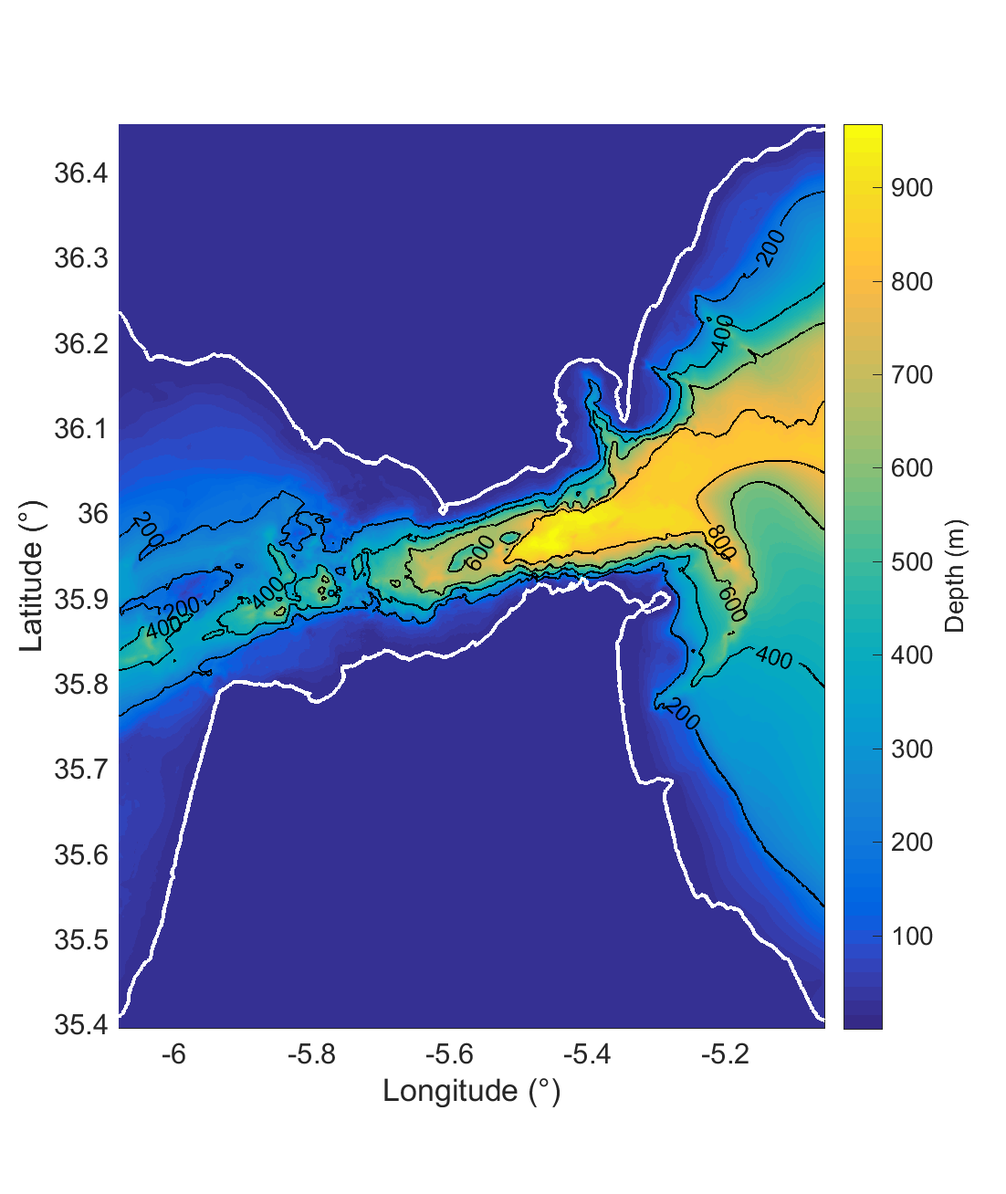
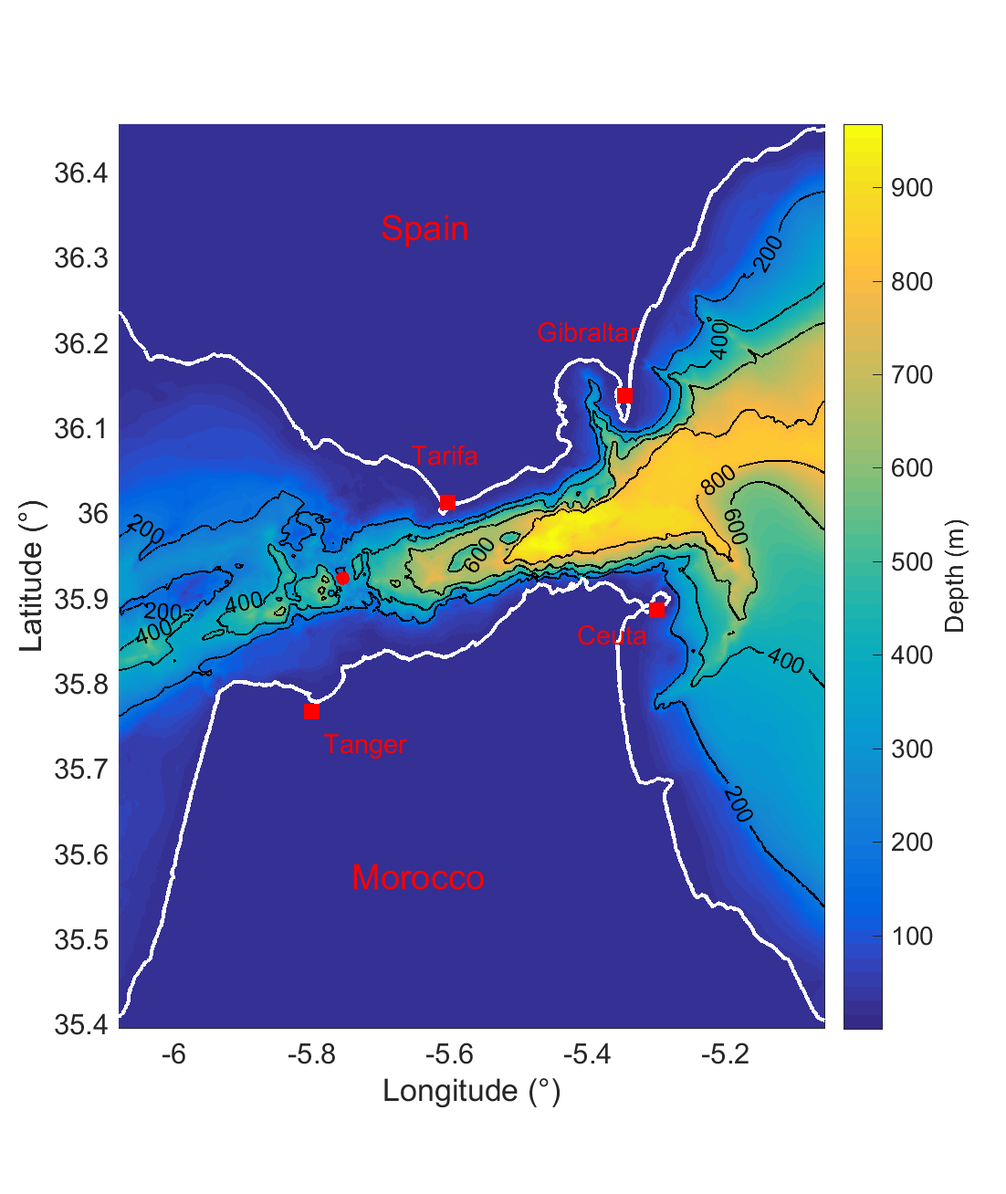
commit12

diff --git a/GBR3D/chapGBR3D.tex b/GBR3D/chapGBR3D.tex
@@ -395,14 +395,14 @@ The numerical simulation framework constitued of three simulation periods is pre
 \subsection{Numerical Configuration}
 \subsubsection{Numerical framework}
 
-Simulations are run using CROCO-NBQ as was the case in Hilt 2020 (see a presentation of CROCO-NBQ there ) . Table \ref{tab_NH-HR} surmrizes some simulation choice. Non-linear equation of state, noslip condition at the bottom,etc...  The turbulent closure scheme used is Smagorinsky with coef 0.05 except for paragraph ... in which simulations used coeff , and also one use GLSk-$\epsilon$.
+Simulations are run using CROCO-NBQ as was the case in Hilt 2020 (see a presentation of CROCO-NBQ there ... and in introduction of manuscript???) . Table \ref{tab_NH-HR} surmrizes some simulation choice. Otherwise, Non-linear equation of state, noslip condition at the bottom,etc...  The turbulent closure scheme used in all simulations except the ones of paragraph ... is Smagorinsky with coef chosen 0.05. For paragraph ... three simulations use Smago with coefs $10{-3}$,$10{-2}$,$10^{-1}$ , and one use GLSk-$\epsilon$.
 
 Bathymetry data from 100m resolved MNT SHOM, smoothed for pressure gradient... is shown in figure \ref{FigBathy3D}. (bathy seuillée?)
 
 
-Initialisation and open boundary conditions (that incude tdial forcing) are from a simulation of the operational Med and Black Sea ENEA using MitGCM (ENEA, Rome)\footnote{http://www.enea.it/it/seguici/pubblicazioni/pdf-volumi/cresco-report-2016.pdf}, whch serves as parent simulation. The parent simulation as an horizontal resolution in the strait of $\approx$ 700m and verical z-levels (repartition?), that are interpolated on grid of horizontal resolution 45 m with 40 evenly spaced vertical $\sigma$-levels. This is sufficient in the area of the main Camarinal Sill sufficient (300m at the top and 500m downslope) to be more resolved on the vertical than in horizontal direction. No atmospheric forcing is embedded in the simulation.
+Initialisation and open boundary conditions (that incude tdial forcing) are from a simulation of the operational Med and Black Sea ENEA using MitGCM (ENEA, Rome)\footnote{http://www.enea.it/it/seguici/pubblicazioni/pdf-volumi/cresco-report-2016.pdf}, whch serves as parent simulation. The parent simulation as an horizontal resolution in the strait of $\approx$ 700m and verical z-levels (repartition?), that are interpolated on grid of horizontal resolution 45 m with 40 evenly spaced vertical $\sigma$-levels. As noted in table ..., this is sufficient to be more resolved in the vertical direction than in the horizontal for the whole simulation domain. At Camarinall Sill, vertical resolution varies from (300m... at the summit to ...500m  downslope. This is sufficient in the area of the main Camarinal Sill. No atmospheric forcing is embedded in the simulation.
 
-First 6 hours of simulation are run in CROCO-Hydro at 50m resolution and the last field is used to restart in NBQ mode. Otherwise the balance in MitGCM is to coarse for stability at high resolution.
+The first 6 hours of simulation are run in CROCO-Hydro at 50m resolution and the last field is used to restart in NBQ mode. Otherwise the balance in MitGCM is to coarse for stability at high resolution.
 
 \begin{table}[!h]
         %\begin{minipage}{.6\textwidth}
@@ -436,8 +436,29 @@ First 6 hours of simulation are run in CROCO-Hydro at 50m resolution and the las
 \end{table}
 
 
+\begin{table}[!h]
+        %\begin{minipage}{.6\textwidth}
+        \centering
+        \begin{tabular}{|c|c|}
+                \hline
+                %Coeur numérique & \multicolumn{2}{c|} {CROCO-NBQ} \\
+                Closure scheme & Simulation name\\
+                \hline
+                Smago 0.005 & SimIT,SimNT,SimST\\
+                Smago 0.001 & SimIT-S001\\
+                Smago 0.01 & SimIT-S01\\
+                Smago 0.1 & SimIT-S1\\
+                GLS K-$\epsilon$ & SimIT-Kep\\
+                \hline
+        \end{tabular}
+        \captionof{table}{Simulation names (ou combiner avec tableau d'avant ???)}
+        \label{tab_sim3Dnames}
+        %\end{minipage}
+\end{table}
+
+
 \subsubsection{Tidal forcing and simulation period}
-The tidal forcing is integrated to the boundary forcing by the parent simulation. As indicated in table \ref{tab_NH-HR},  it comprises four tidal harmonics (?)($\text{M}_{\text{2}}$, $\text{S}_{\text{2}}$, $\text{K}_{\text{1}}$, $\text{O}_{\text{1}}$). Simulations are run for 3 days along 3 different periods of September of year 2017 (close to equinox). The date of the beginning and end of each NBQ simulation is surmrised in table \ref{tab_dates_MIV}, and does not include the 6hour hyrostatic spin up period. The comparison of the sea-level anomaly between a grid point near Tarifa (coord -5.6° - 36.01°) in both the parent MitGCM and CROCO simulation and the tidal gauge data (from Puertos del Estado) are shown in figure \ref{fig_maree_tar}. Can see close to the parent simulation except in the neap tide period.
+The tidal forcing is integrated to the boundary forcing by the parent simulation. As indicated in table \ref{tab_NH-HR},  it comprises four tidal harmonics (?)($\text{M}_{\text{2}}$, $\text{S}_{\text{2}}$, $\text{K}_{\text{1}}$, $\text{O}_{\text{1}}$). Due to compuational cost constraints, simulations are run for 3 days along 3 different periods of September of year 2017 (close to equinox). The date of the beginning and end of each NBQ simulation is surmrised in table \ref{tab_dates_MIV}, and does not include the 6hour hyrostatic spin up period. The comparison of the sea-level anomaly between a grid point near Tarifa (coord -5.6° - 36.01°) in both the parent MitGCM and CROCO simulation and the tidal gauge data (from Puertos del Estado) are shown in figure \ref{fig_maree_tar}. Can see close to the parent simulation except in the neap tide period.
 
 \begin{table}[h]
         %\begin{minipage}{.6\textwidth}
@@ -446,10 +467,10 @@ The tidal forcing is integrated to the boundary forcing by the parent simulation
                 \hline
                 Situation & Simulation name & Dates (UTC)\\
                 \hline
-                Intermediate Tide & IT & 10/09/2017 19h00 - 13/09/17 01h00  \\
-                Neap Tide& NT & 13/09/2017 16h00 - 15/09/17 17h00 \\
+                Intermediate Tide & SimIT & 10/09/2017 19h00 - 13/09/17 01h00  \\
+                Neap Tide& SimNT & 13/09/2017 16h00 - 15/09/17 17h00 \\
                 %\hline
-                Spring Tide& ST & 19/09/2017 22h00 - 21/09/17 23h00  \\
+                Spring Tide& SimST & 19/09/2017 22h00 - 21/09/17 23h00  \\
                 \hline
         \end{tabular}
         \captionof{table}{Trouver des noms pours les simus....Périodes de simulation pour les 3 sitituations VE, MM et ME (format date JJ/MM/YY????)}
@@ -459,7 +480,7 @@ The tidal forcing is integrated to the boundary forcing by the parent simulation
 
 \begin{figure}[!h]
         \includegraphics[width=0.5\textwidth]{./GBR3D/FigBathyVHR.png}
-        \caption{Ajouter point Tarifa(et Ceuta, Tanger, Gibraltar, Tarifa), point ubar...(5.7553$^o$W  35.9238$^o$N) (Foutre a cote d'un tableau???)}
+        \caption{Area and Bathymetry used for the simulations. The red dot denotes the point at Camarinal Sill where the zonal barotropic current is taken as reference in following figures.}
         \label{FigBathy3D}
 \end{figure}
 
@@ -490,7 +511,7 @@ Figure \ref{Fig_Ini_WM3D} shows the $\theta$-S diagrams for east and west entry 
 
 \subsubsection{Interface definition}
 
-The analysis of simulation result is based on two layer definition of an Atlantic waters layer and Mediterranean waters layer. They are defined in regard to a reference salinity, with the interface defined from the first water parcel from the top down in teh water column for which salinity is above the reference salinity.
+The analysis of simulation result is based on two layer definition of an Atlantic waters layer and Mediterranean waters layer. They are defined in regard to a reference salinity, with the interface defined as the height of the first water parcel from the top down in teh water column for which salinity is above the reference salinity.
 
 The reference salinity is taken as varying along the Strait as a hyperbolic tangente function of longitude centered at the Camarinal Sill to account for the different water mass composition in the eastern and western part of the Strait of Gibraltar. %The function was fitted against the median salinity found by of fitted hyperbolic tangente to the salinity profile in the water column for the initial field
 
@@ -513,7 +534,7 @@ With the atlantic and mediterranean layers defined as above, the Froude layer nu
 F_i=\frac{U_i^2}{g'h_i} , \ \text{with} g'=g \frac{\rho_2-\rho_1}{\rho_0}
 \end{equation}
 
-where $\rho_i$ averaged density in layer i,  $U$ is averaged velocity norm (u and v) over the layer i of height h. If $F_i>1$ say that the flow in layer i is supercritical.
+where $\rho_i$ averaged density in layer i,  $U$ is averaged velocity norm over the layer i of height h. If $F_i>1$ say that the flow in layer i is supercritical.
 
 
 \subsubsection{Hydraulic Jump detection, acceleration of flow}
@@ -553,19 +574,18 @@ Velocity in the area of the hydraulic jump must validate condition of (at least)
 
 
 
-In the end, some parameters are chosen as threshold, here take values that should be correct for area of camarinal sill, the minimum excursion of the jump $\Delta n$ and the height of the Atl layer $b_2$ , and the reduced gravity.  (ici prend...)
+In the end, some parameters are chosen as threshold, here take values that should be correct for area of camarinal sill, the minimum excursion of the jump $\Delta n = 30m$ and the height of the Atl layer $b_2=50 m$ , and the reduced gravity $g'=0.02 m s^{-2}$.
 
 \subsubsection{Q parameter and derivated diagnosis}
 
-We want to detect primary shear instabilities in the Med outflow.
-To detect vortex structures without a proiori choosing a rotation axe as with vorticity diagnosis, can use parameter Q (refs) 
+We want to detect primary shear instabilities in the Med outflow. A simple vorticity diagnosis is not chosen because it requires chosing the rotation axe and regions of high shear such as between the MEd outflow and Atl waters, have high vorticity values. Insetad, chose to compute parameter Q, as defined as :
 
 \begin{equation}
 Q=-\frac{1}{2} \frac{\partial u_i}{\partial x_j} \frac{\partial u_j}{\partial x_i} = \frac{1}{2} (\Omega_{ij}\Omega_{ij} - S_{ij} S_{ij})
 \end{equation}
 with $u_i$ the component of velocity, and $S_{ij}$ and $\Omega_{ij}$ are respectively symetrical and anti-symetrical parts of velocity gradient (comme ça se dit en anglais????). When $Q>0$, anti-symetrical term contribution, which denotes rotation, is predominent over the symmetrical, shear, part. ((It can also be viewed as a generalisation of Okubo-Weiss parameter used in 2D, however rotation is indicated by negative values for OW, but by positive values for Q parameter.))
 
-This distinction between shear an rotation is not achieved by a simple vorticity calculation // Also $Q>0$ better to detect vortices than just vorticity since there is still then shear between med vein and atl layer.
+%This distinction between shear an rotation is not achieved by a simple vorticity calculation // Also $Q>0$ better to detect vortices than just vorticity since there is still then shear between med vein and atl layer.
 
 
 Due to advection by the Med outflow, a succession of primary instabilities will propagate over teh same grid cells. The temporal evolution of Q over such grid cell will show oscillations between high positive value (center of a billow/vortex) and low negative values (shear between two consecutive billows). A proxy to detect this area is chosen as high value of standard deviation of parameter Q, as defined in equation \ref{eqstdQ} where the overbar denotes temporal average over 30 minutes, a period over which there will be minimal modification of the general flow in the Strait.
@@ -587,6 +607,9 @@ The result of this proxy can be compared to the result of the Singular Value Dec
 
 \subsubsection{Flow criticality/Hydraulically controlled layer and hydraulic jump, neap-spring tide variability}
 
+ATTENTION courant de gravité et ressaut hydraulique...
+
+
 \begin{figure}[!h]
  \centering
  
@@ -599,7 +622,7 @@ The result of this proxy can be compared to the result of the Singular Value Dec
 \centering
 \includegraphics[width=\linewidth]{./GBR3D/ME2_13h_p.png}
 \end{subfigure}
-\caption {For neap tide, inflow then outflow. Blue (red) shaded area is supercritical med (atl) layer. Black dots are hyd jump detection. grey area denotes where S bottom$<$Sinterface. colorbar for standard deviation of parameter Q (only values above $10^-5$are represented). Also inicated barotropic znal current at 5.7553$^o$W  35.9238$^o$N. Two black isobathes contours are indicated, 200m (bold) and 400m(thin) depth  }
+\caption {For simulation SimNT, an inflow then an outflow of type \textit{no-jump}. Blue (red) shaded area is supercritical med (atl) layer. Black dots are hyd jump detection. grey area denotes where S bottom$<$Sinterface. colorbar for standard deviation of parameter Q (only values above $10^-5$are represented). Also inicated barotropic znal current at 5.7553$^o$W  35.9238$^o$N. Two black isobathes contours are indicated, 200m (bold) and 400m(thin) depth  }
 \label{FigHCN}
 \end{figure}
 
@@ -618,7 +641,7 @@ Figure \ref{FigHCN} presents weak barotropic tidal currents in outflow and inflo
 \centering
 \includegraphics[width=\linewidth]{./GBR3D/VE2_25h_p.png}
 \end{subfigure}
-\caption {Same as figure ... for spring tide}
+\caption {Same as figure \ref{FigHCN} for simulation SimST in inflow and outflow of type \textit{w-jump}}
 \label{FigHCS}
 \end{figure}
 
@@ -628,7 +651,7 @@ Figure \ref{FigHCN} presents weak barotropic tidal currents in outflow and inflo
 %\centering
 \includegraphics[width=\linewidth]{./GBR3D/IES_41h_p.png}
 %\end{subfigure}
- \caption {Same as figure ... for intermediate outflow case, on figure SLA also put trace of jump of spring tide outflow}
+ \caption {Same as figure  \ref{FigHCN} for simulation SimIT and an outflow of type {s-jump}, on figure SLA also put trace of jump of spring tide outflow}
  \label{FigHCI}
 \end{figure}
 
@@ -643,19 +666,26 @@ Those propagating ISW are developped from hyd jump that are detected in figures.
 
 Find accross all simulated tidal cycle three type of flow at Camarinal Sill during outflow : no hydraulic jump as in figure \ref{FigHCN}.b (\textit{no-jump}), a hydraulic jump situated just above the sill (figure \ref{FigHCI}, \textit{s-jump}), and a hydraulic jump situated over the west slope of the Camarinal Sill (figure \ref{FigHCS}.b, \textit{w-jump}).
 
-
-
-
-\subsubsection{Propagation of Solitons (ISWs)}
-
 \begin{figure}[!h]
  \centering
 %\begin{subfigure}{\linewidth}
 %\centering
 \includegraphics[width=\linewidth]{./GBR3D/FigWaveCont.png}
 %\end{subfigure}
- \caption {Divergence of surface current and froude of atl layer superior to 1 (changer crois en noir et plus grandes...), mettre profondeur de l'interface (moins profond au nord?)}
+ \caption {Divergence of surface current (color) and area of supercritical atlantic layer (black hatchs) at t=22.5H in SimIT (a) and t=19.5H in SimST (b)}
  \label{FigISWGBR3D}
+\end{figure}
+
+
+\subsubsection{Propagation of Solitons (ISWs)}
+
+
+
+\begin{figure}[!h]
+ \centering
+ \includegraphics[width=1.\textwidth]{./GBR3D/coupesISW_ME2-2.png}
+ \caption {Divergence of surface current (a,c) and vertical section (b,d) of salinity (black ishalines) and zonal velocity $u$ (color) in SimNT at 20h (a,b) and 22h (c,d) of simulation.}
+  \label{FigISWNT}
 \end{figure}
 
 
@@ -666,72 +696,113 @@ Find accross all simulated tidal cycle three type of flow at Camarinal Sill duri
 %\centering
 \includegraphics[width=\linewidth]{./GBR3D/FigTourbVE2.png}
 %\end{subfigure}
- \caption {Vorticity of surface current (upper row) and divergence of surface current (lower row)  (!rajouter vecteurs vitesses au champ vorticité????)}
+ \caption {Divergence of surface current (upper row) at t=10.5H,12.5H, then 23H and 25H of simulation SimST,  and z-axis vorticity of surface current (lower row) for the same time.}
  \label{FigeddGBR3D}
 \end{figure}
 
-Solitary waves are generated at each tidal cycle at CS, except when there is no hydraulic jump. However, even at this point the tide passing through the strait and through tarifa gives a signal at the surface that exiting the strait starts disppersing in a wave train, though not as extended. In the simulations, Always organised train with the leading wave being greater except when propagation in the ALboran Sea due to refraction on an eddy.
+Solitary waves are generated at each tidal cycle at CS, except when there is no hydraulic jump, figure \ref{FigISWGBR3D} gives exemple of their propagation in Tarifa Narrows. Figure \ref{FigISWNT} also depicts the divergence of surface current but at the eastern exit of the Strait in inflow following a no-jump outflow. Can see that a train of solitary wave still ends up propagating in the alboran Sea, as the signal of the propagation of the baroclinic tide in figure \ref{FigISWNT}.b makes a more and more pronounced front with steeper isohaline that through the non-hydrostatic disperison balance with non-linearity devolves into a train of solitary waves. 
 
-This case is presented in figure \ref{FigeddGBR3D}, for simulation ...,  two rows of figure plotted the vorticity and divergence field of the surface currents. In figure \ref{FigeddGBR3D}.a wave packet arrives at exit of the Strait, in south part off of Ceuta, filament of positive vorticity. As the wave passes this area in \ref{FigeddGBR3D}.b the filament is now a cyclonic eddy detached from the coast. In \ref{FigeddGBR3D}.c one tidal cycle later the eddy is at 5.2$^o$W and 36$^o$N and thenleading waves of the next wave packet generated at this cycle are arriving at this position, disforming the shape of the packet, south part accelerated and north part decelareted, at the same time can see once again potential vorticity patch off of Ceuta. In \ref{FigeddGBR3D}.d this patch too has developped in a cyclonic eddy that propagates in the Alboran Sea while the interaction between the solitary waves and the previous cyclonic eddy has resulted in interference pattern in the wave packet. 
+Compared to the upper row of figure \ref{FigeddGBR3D}, that also shows divergece of surface current but for inflows after hydraulic jump, those train of solitary waves are less extended than in case where tehre was hydraulic jump at CS. The lower row of figure shows the z-axis vorticity of surface currents at teh same time. The two inflow periods shown are separated by one tidal cycle. First two figure see a train of solitary waves exiting the strait, in figure of vorticity see that as it exists, a filament of positive vorticity is formed by interaction with the coast of Ceuta and develops into a cyclonic eddy.  detached from the coast. In \ref{FigeddGBR3D}.c one tidal cycle later the eddy is at 5.2$^o$W and 36$^o$N and thenleading waves of the next wave packet generated at this cycle are arriving at this position, disforming the shape of the packet, south part accelerated and north part decelareted, at the same time can see once again potential vorticity patch off of Ceuta. In \ref{FigeddGBR3D}.d this patch too has developped in a cyclonic eddy that propagates in the Alboran Sea while the interaction between the solitary waves and the previous cyclonic eddy has resulted in interference pattern in the wave packet. 
 
-In the simulations, this process of generation of cyclonic eddy off of the coeast of CEuta occurs each time solitary waves exit the srait,  The wave of the next tidal cycle gets diffracted on this eddy, creating interference in the train of solitary waves.
+
+%However, even in case of no hydraulic jump, solitary waves end up  point the tide passing through the strait and through tarifa gives a signal at the surface that exiting the strait starts disppersing in a wave train, though not as extended. In the simulations, Always organised train with the leading wave being greater except when propagation in the ALboran Sea due to refraction on an eddy.
+
+%This case is presented in figure \ref{FigeddGBR3D}, for simulation ...,  two rows of figure plotted the vorticity and divergence field of the surface currents. In figure \ref{FigeddGBR3D}.a wave packet arrives at exit of the Strait, in south part off of Ceuta, filament of positive vorticity. As the wave passes this area in \ref{FigeddGBR3D}.b the filament is now a cyclonic eddy detached from the coast. In \ref{FigeddGBR3D}.c one tidal cycle later the eddy is at 5.2$^o$W and 36$^o$N and thenleading waves of the next wave packet generated at this cycle are arriving at this position, disforming the shape of the packet, south part accelerated and north part decelareted, at the same time can see once again potential vorticity patch off of Ceuta. In \ref{FigeddGBR3D}.d this patch too has developped in a cyclonic eddy that propagates in the Alboran Sea while the interaction between the solitary waves and the previous cyclonic eddy has resulted in interference pattern in the wave packet. 
+
+In the simulations, this process of generation of cyclonic eddy off of the coeast of Ceuta occurs each time solitary waves exit the srait,  The wave of the next tidal cycle gets diffracted on this eddy, creating interference in the train of solitary waves.
 
 
 
 \subsubsection{Dynamic at Camarinal Sill, primary instabilities}
 
 
-Figures \ref{FigHCN,FigHCS,FigHCI}  Patches of high standard deviation of parameter Q are indicated, they are the most extended for all outflow cases and for the spring tide inflow, although the values for this latter case are not as high. In particular, highest values are found for the two outflow case where hydraulic jump is detected (ping and intermediate tide), in the area west of CS at 5.79$^o$W and west of secondary bathymetric features in Tanger basin at 5.84$^o$W. There is also a signal at Espartel Sill, of greater standard deviation for the spring tide outflow, meaning higher values for the parameter Q are reached there, ie the rotational part of the velocity gradient is greater, indicating vortices. 
+Along with the hydraulogical features of teh flow already discussed previously, figures \ref{FigHCN},\ref{FigHCS},and\ref{FigHCI}  indicate patches of high standard deviation of parameter Q. They are the most extended for all outflow cases and for the spring tide inflow, although the values for this latter case are not as high. High values of this parameter indicate oscillation of the value of parameter Q of greater amplitude, the highest are found for the two outflow case where hydraulic jump is detected (w-jump and s-jump), in the area west of CS at 5.79$^\text{o}$W and west of secondary bathymetric features in Tanger basin at 5.84$^\text{o}$W. There is also a signal at Espartel Sill, of greater standard deviation for the spring tide outflow.
 
-Figure \ref{FigTSCS}.a superposes to the standard deviation the ... field of the left-hand term (spatial) term of SVD of the 3D field of parameter Q computed during the outflow for the EOF that had the most high-frequencey variability associated with propagation of vortical structures (higher order EOF (not shown) have low frequency variability and structure associated with the regional flow itself). Can see that the contour of parameter Q$=1e-5m^2s^{-2}$ are located at same place as high standard deviation.See generation areas of vortexes are approximately centered around two longitudes. Figures \ref{FigTSCS}.b to e show the partial view of $\theta$-S diagram in part of the graph of med waters where every hydrological property at each grid point in the simulation for a given longitude. See that in b that at ...degrés still up at the sill have a repartition of med water masses alike that in figure ... . then from c to d more and more homogenized along same latitude under the efefct of mixing.
+Figure \ref{FigTSCS}.a superposes to the standard deviation to the singular vector of SVD of the 3D field of parameter Q computed during the outflow for the EOF that had the most high-frequencey variability in its eigenvector, associated with propagation of vortical structures (higher order EOF (not shown) have low frequency variability and structure associated with the regional flow itself). Can see that the contour of parameter Q$=5e-5m^2s^{-2}$ are located at same place as high standard deviation. See generation areas of vortexes are approximately centered around two longitudes 5.77$^\text{o}$W on the west slope of Camainal Sill and  5.84$^\text{o}$W on the west slope of secondary sills in Tanger Bassin. Figures \ref{FigTSCS}.b to e show the partial view of $\theta$-S diagram in part of the graph of med waters where every hydrological property at each grid point in the simulation for a given longitude. See that in b that at ...degrés still up at the sill have a repartition of med water masses alike that in figure \ref{Fig_Ini_WM3D}. then from c to d more and more homogenized along same latitude under the effect of mixing.
+
+The 36.05 (yellow) points seen is a passage north of Camarinal along shallower depth of bathymetry and those waters are mixed to NACW west of this point.
 
 \begin{figure}[!h]
 % \centering
  \includegraphics[width=\textwidth]{./GBR3D/TS_coupes_14H_VE2o.png}
- \caption {std(Q) in last 30 minutes before 14H of simulation time in spring tide simulation, and trace of contour Q of SVD (remettre même palette de couleur que fig controles hyd) Black box is area where svd, back dashed lines indicate the longitude at which T,S diagrams are plotted.T,S diagrams, inset on med outflow area (AJOUTER terme temporel SVD et montrer où est!!!)}
+ \caption {(a) Standard deviation of parameter Q over 30 mintues at t=14H in SimST (color) and trace of Q$=5$ from the high-frequency EOF of SVD performed in the rectangular black box during the outflow period. Black dashed lines indicate the longitude at which T,S diagrams are plotted. (b,c,d,e) T,S diagrams, zoomed in on area of Mediterranean watermasses. (Mettre LETTRES)}
  \label{FigTSCS}
 \end{figure}
 
 
-Figure ...a,b,c presents the EOF of parameter Q for the outflows of figures .... along with vertical sections of salinity at the time of ... d,e,f. Figures.. g and h are histograms giving the height above seafoor and latitude of the grid points if the EOF for which Q$\geq 1e-5m^2/s^2$. See that the positive value of Q parammeter are associated with billow structures of salinity. At this longitude where the instabilities are still developped, cores are not yet mixed in the simulation. The structure of those billows is different whether or not there is a hydraulic jump at Camarinal Sill, and the position of the jump whether it is an intermediate tide case or spring tide case also changes the repartition f those billows.
+Now looking at the singular vectors of SVD for outflows of different strength of barotropic tidal currents . Figure \ref{FigEOFMIV}.a,b,c presents the EOF of parameter Q for the outflows of figures \ref{FigHCN},\ref{FigHCS},and\ref{FigHCI},along with vertical sections of salinity at the time of figure \ref{FigEOFMIV}d,e,f. Figure \ref{FigEOFMIV} g and h are histograms giving the height above seafoor and latitude of the grid points of the EOF for which Q$\geq 5e-5m^2/s^2$. On vertical sections, can see that the positive value of Q parammeter are associated with billow structures of salinity that develop in the gravity current along the west solpe of the Camarinal Sill. Those structures develop for each outflow case, but the wider distributions of height above seafloor and visualisation in the vertical section indicates the billows have greater radius in the hydraulic jumps cases, entraining more interfacial and atlantic waters into the mediterranean outflow. At this longitude where the instabilities are still developped, cores are not yet mixed in the simulation, can see as in the $\Theta$-S diagrams that the outflow is still heterogeneous.
 
-All those simulation were run with a Smagorinski turbulence scheme of coefficient ... 0.05. 
+The two hydraulic jump cases also differ, in the w-jump case, the start of the gravity current and the hydraulic jump are colocalised at this latitude, but not in the s-jump case, and 
 
-
-
+while instabilities develop along the same areas in no-jump and s-jump case, in the w-jump case the hydralic jump and teh start of the gravity current are colocalised at all latitude as seen in the vertcial section, which adds a possible area of generation between 35.92$^\text{o}$N and 35.93$^\text{o}$N, downslope of the shallowest point of the sill where the flow of Mediterranean waters is not as strong for s-jump and no-jump cases.
 
 
 \begin{figure}[!h]
 % \centering
  \includegraphics[width=\textwidth]{./GBR3D/EOF5_MIV_2D.png}
- \caption {(Retirer les EOF superieures, pas normaliser)}
+ \caption {(a,b,c) Contour of parameter Q$=5.10^{-5}$ in first high frequency EOF of SVD performed during outflow of figures \ref{FigHCN}.b,\ref{FigHCI} and \ref{FigHCS}.b respectively. and isobathes (black) (200m, thicker)  (250 to 450, thick) (500 to 600m, thin). (d,e,f) vertical section of salinity (color) and contour of Q-parameter $=5.10^{-5}$ at latitude $35.9372^\text{o}$ at the same time as figures \ref{FigHCN}.b,\ref{FigHCI} and \ref{FigHCS}.b respectively. (g) histogram of the height of the grid points of each EOF shown in a,b and c above the seafloar. (h) histogram of the latitude of the grid points of each EOF shown in a,b and c above the seafloar. }
+ \label{FigEOFMIV}
 \end{figure}
+
+
+(phrase plutot pour conclusion?) Can easily see that the configuartion of the flow at CS, by being the first passage of the Med waters, will affect the hydrological properties, first by the volume of med waters that can flow west of the sill at each outflow, second by how much atlantic waters are entrained. A point that was not studied here is that not only those hydraulogical characteristics but also dynamical properties of the ouflow.
 
 
 \subparagraph{Closure scheme}
 
-Compare simulations, three use Smagorinsky turbulent scheme with different coefficients. One is using GLS K-$\epsilon$
+Now look at four other simulations, three use Smagorinsky turbulent scheme with different coefficients. One is using GLS K-$\epsilon$. In figure \ref{Fig3Dsch}.a,c,e,g, vertical section of salinity during the first outflow which is in a no-jump case, with Richardson gradient number $Ri$ and Q parameter indicated. $Ri$ is calculated for a field averaged for a half hour to filter out the propagating structures.
 
-Case S0.001 instabilities devlop from the inset of the jump at approx 5.77 deg and the billows contain less salty waters, ie the signal of atl surface water in the med outflow will be stronger in this simulation.
+Figure \ref{Fig3Dsch}.b,d,f,h the averaged salinity in med (b,f) and atl layer(d,h),east (f,h) and west (b,d) of Camarinal Sill. Note that this is averaged value, as shown in figure and can be seen in the vertical sections the outflow is not homogeneous at this longitude yet.
+
+In vertical sections, can see that the area of $Ri=0.25$ starts at 5.77$^\text{o}$ for all four simulations, indicating shear instabilities could develop from this point in the gravity current. This is the case for all simulations but SimIT-S1, for which they only develop downflow of an intrusion of atlantic waters at 5.783$^\text{o}$W. 
 
 
 While the width of the Med vein as it begins to go downslope of Camarinal as salty water is the same, in simulations 1 and 2 instabilities are earlier in the jump and bring more atl waters as the core or billows are advected downslope, resulting in more atl water being integrated to the med outflow at the passage of CS. Figure gives the average salinity of the med outflow taken at lon ... averaged over all latitude (med outflow defined by all parcels of salinity superior to interface smlinity...).
 
-Looking at condiftions for the instability development, richardosn number (computed on 1h averaged field to filter the billows) is below 0.25 for each simulation, however, looking more in detail the shear and stratification, stratification is more or less teh same but shear is lesser in 3.
 
-This is counterintuitive as 3 has a greater diffusivity and viscosity, this acts without instabilitied for exemple like east of the sill in figure with enhancing mixing in the haloclyne with surafce waters becoming saltier and deep waters becoming less salty.
+
+%Case S0.001 instabilities devlop from the inset of the jump at approx 5.77 deg and the billows contain less salty waters, ie the signal of atl surface water in the med outflow will be stronger in this simulation.
+
+
+The salinity of the mediterranean outflow seems more sensible to the area where generation occurs, even if the stability condition is the same along the gravity current, in SimIT-S1the first instabilities are simulated further down the slope. In contrast Case S0.001 instabilities devlop from the inset of the jump at approx 5.77 deg and the billows contain less salty waters, ie the signal of atl surface water in the med outflow will be stronger in this simulation.
+
+
+%While the width of the Med vein as it begins to go downslope of Camarinal as salty water is the same, in simulations 1 and 2 instabilities are earlier in the jump and bring more atl waters as the core or billows are advected downslope, resulting in more atl water being integrated to the med outflow at the passage of CS. Figure gives the average salinity of the med outflow taken at lon ... averaged over all latitude (med outflow defined by all parcels of salinity superior to interface smlinity...).
+
+%Looking at condiftions for the instability development, richardosn number (computed on 1h averaged field to filter the billows) is below 0.25 for each simulation, however, looking more in detail the shear and stratification, stratification is more or less teh same but shear is lesser in 3.
+
+This is counterintuitive as SimIT-S1 has a greater diffusivity and viscosity, this acts without instabilitied for exemple like east of the sill in figure with enhancing mixing in the haloclyne with surafce waters becoming saltier and deep waters becoming less salty.
 
 Kepsilon on the other hand see less developped roll of salinity although the instabilities begin at ... On average this seems to lead to a slightly less salty mediterranean vein.
+
+%Note that this is averaged value, as shown in figure and can be seen in the vertical section the outflow is not homogeneous at this longitude yet.
 
 
 \begin{figure}[!h]
 % \centering
  \includegraphics[width=\textwidth]{./GBR3D/Figsmago.png}
- \caption {fiels of salinity at lat = $35.9372^o$ in simu IES at 4h of simulation time  (1:S0.001  2:S0.01  3:S0.1 4:Kep)}
+ \caption {Vertical section of salinity (color) and contour of $Q=5.10^{-5}$ (red) and Richardson gradient number $=025$ (black) at lat = $35.9372^o$ in simulations SimIT-S001,SimIT-S01,SimIT-S1 and SimIT-Kep IES at t=4h of simulation. time  (1:S0.001  2:S0.01  3:S0.1 4:Kep)(Rajouter une évolution de ubar!!! sur s0.001)}
+ \label{Fig3Dsch}
 \end{figure}
 
 %-------------------------------------------------------------------------------------
 \subsection{Discussion}
+
+Analysed the criticality of the flow in realistic oceanic simulation of the Starit of Gibraltar. See no permanent supercritical flow accross the simulations, only intermitent with the tidal cycle, ith location and extension of the area of supercritical flow depending on the strength of the barotropic currents.
+
+In outflow when both atl and med layers are critical, hydraulic jump, which position is either over the shallowest part of the sill, or over its western slope. This hydraulic jump evolves into train of solitary waves at the tidal bascule, that exits teh strait into the Alboran Sea. Even for tidal cycle for which the flow over the sill is not critical and there is no formation of hydraulic jump, the non-linearity of the propagation of the barotropic tidal signal in the eastern part of the strait devolves into a less extended train of solitary waves propagating into the Alboran Sea.
+
+At each simulated tidal cycle, a cyclonic eddy is formed of the coast of Ceuta in teh southern part of the eastern exit of the Strait. This eddy is advected by teh flow in th Alboran Sea and interacts with the train of solitary waves.
+
+Finally, simulkation is well-enough resolved that primary istability of shear are resolved. They are generated at ... and are advected with the shear between med outflow and atlantic waters as was the case in 2D simulation of Hilt 2020, with mixing occuring downflow of those area of propagation of those primary instabilities as they are simulated. See that the tidal regime also impacts extent of area of generation and strength of such instabilities. 
+
+However, it is important to note that simulation only represents the beginning of the mixing by turbulent processes, and while the generation process is simulated, where they are generated and their evolution is depednant on the turbulence closure scheme used. In particlular, a higher coefficient of the Smagorinsky means higher value of mixing coefficient, but teh simulated features in the hydraulic jump are not as efficient in incorporating atlantic waters into the med outflow, resulting in a saltier med outflow.
+
+
+
+
+
+
 
 
 (notes conclusions : strength of the barotropic tide makes for varying cases of hydraulogy of the flow of the two-layer exchange. hyd jump detection seems to be linked here to the criticality of the atl layer, and gives surface signature. it occures for all cases here, although the neap inflow case still has a 1m/s barotropic current while the neap outflow was at 0.5m/s and weaker inflow may exist in nature and result in different situation. ((The most interesting hyd jump are the outflows where they are associated  )). criticality for the inflows in area of TN is linked to both the strength of the barotropic current wich pilots the extent of the flow in the nothern area and the presence of propagating solitary wave which induces critical flow in south part.

diff --git a/GBR3D/GEPETO.tex b/GBR3D/GEPETO.tex
@@ -24,13 +24,14 @@ Lister les instruments...
 
 \begin{table}[!h]
         \centering
-        \begin{tabular}{|c|c|c|}
+        \begin{tabular}{|c|c|c|c|}
                 \hline
-                M1 & N35 55.264 W005 46.739 & 8/10/2020 15h - 1/11/2020 14h\\
-                M2 & N35 55.761 W005 45.288 & 8/10/2020 5h - 17/10/2020 15h\\
-                M3 & N35 54.719 W005 44.459 & 8/10/2020 13h - 22/10/2020 21h\\
-                M4 & N35 55.870 W005 41.020 & 8/10/2020 ?? - 17/10/2020 ??h\\
-                M5 & N35 56.229 W005 41.026 & 8/10/2020 9h - 1/11/2020 14h\\
+                 & type & position & time \\ 
+                M1 & hydro & N35 55.264 W005 46.739 & 8/10/2020 15h - 1/11/2020 14h\\
+                M2 & couranto & N35 55.761 W005 45.288 & 8/10/2020 5h - 17/10/2020 15h\\
+                M3 & hydro & N35 54.719 W005 44.459 & 8/10/2020 13h - 22/10/2020 21h\\
+                M4 & couranto & N35 55.870 W005 41.020 & 8/10/2020 ?? - 17/10/2020 ??h\\
+                M5 & hydro & N35 56.229 W005 41.026 & 8/10/2020 9h - 1/11/2020 14h\\
                 \hline
         \end{tabular}
         %\captionof{table}{Simulation parameters}

diff --git a/main.tex b/main.tex
@@ -138,19 +138,10 @@ Inclure pdf page de titre
 %\cite{BS84}
 \citet{armi_1985}
 
-\begin{itemize}
-\item fines échelles et leur rétroaction/structuration de circu générale
-\item choix région Gibraltar (Rencontre deux masses d'eaux, alimentation Méditerranée, outflow med)
-\item les fines échelles à Gibraltar (quels phénomènes (solitons, ressaut, etc))
-\item Outils de la thèse : num, obs (compagne,sat)
-\item état des lieux modélisation num fines échelles océaniques, problematique quantification mélange diapycnale
-\item plan
-\end{itemize}
 
-\section{aaa}
+\input{./INTRO/intro.tex}
 
-\subsection{iii}
-
+%%%%%%%%%%%%%%%%%%%%%%%%%%%%%%%%%%%%%%%%%%%%%%%%%%%%%%%%%%
 
 
 \chapter{Mod\'elisation  Repr\'esentation de l'oc\'ean et de son m\'elange}
